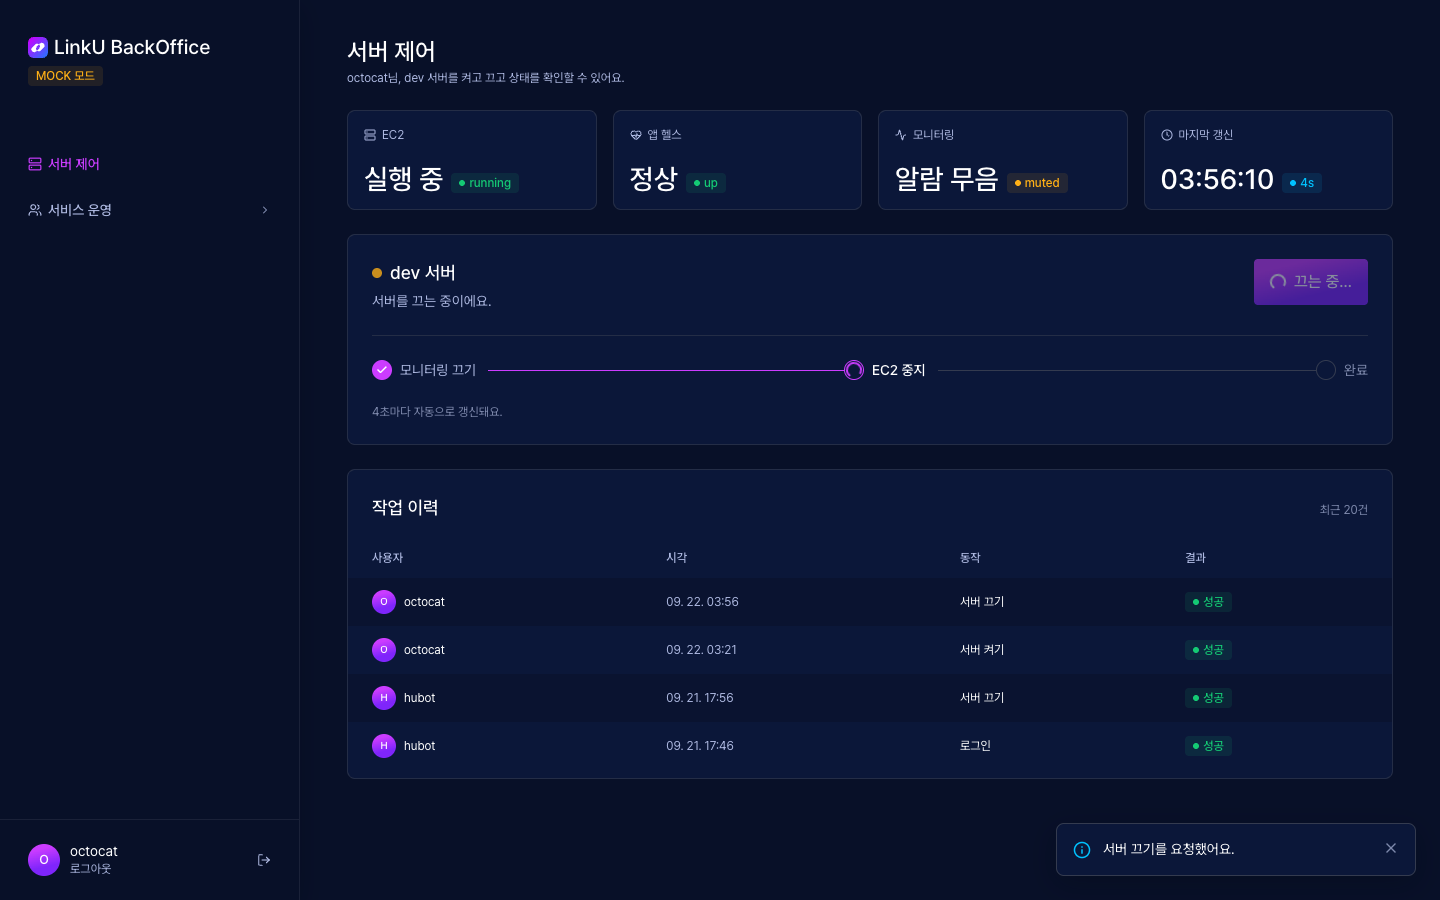
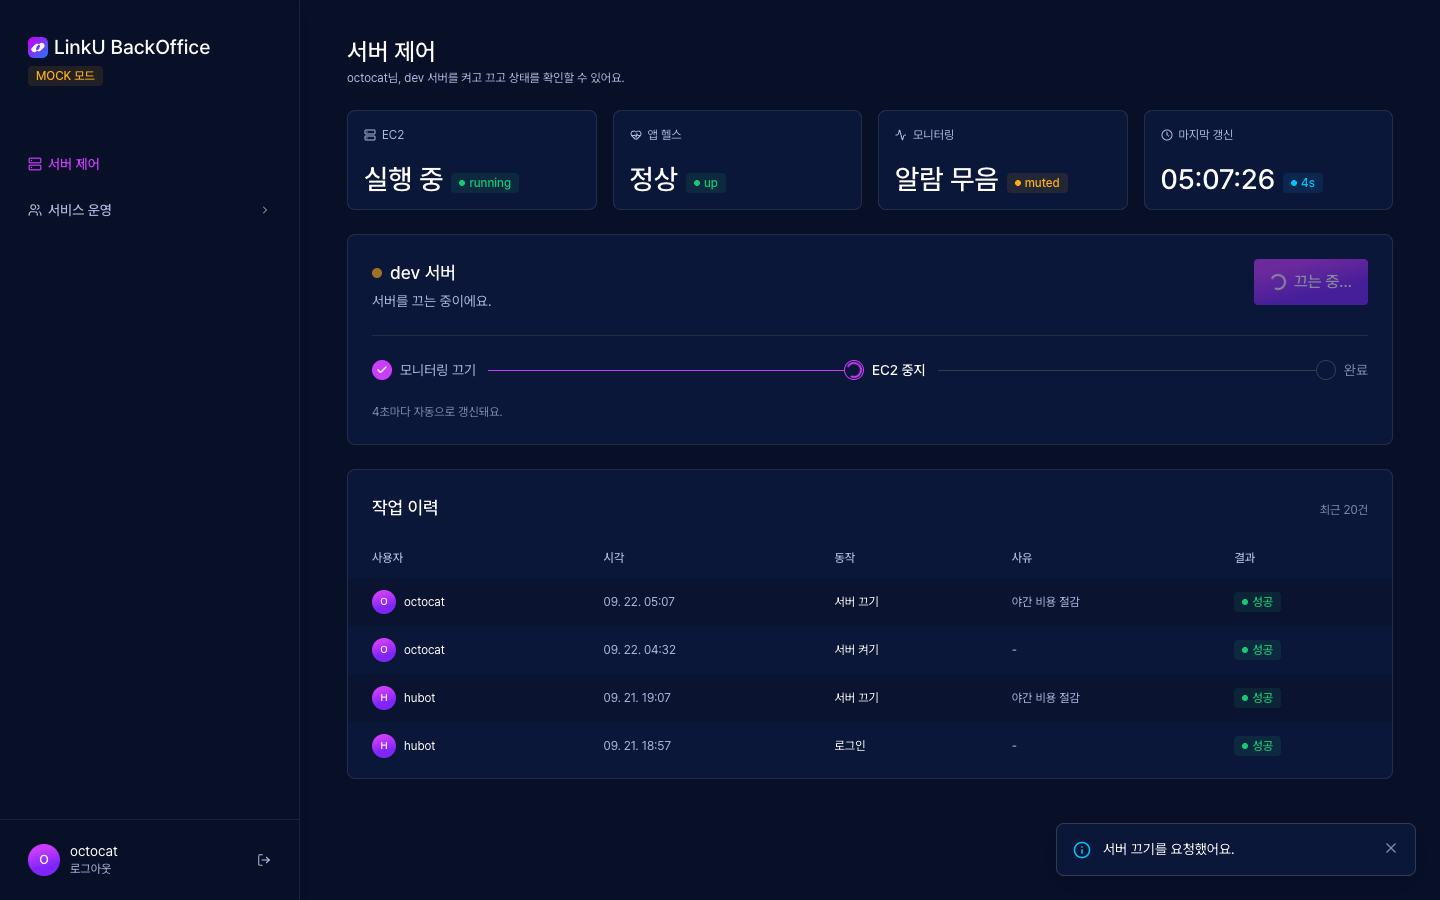
feat: 서버 끄기 사유 입력과 이력 사유 표시 (#3)
* fix: authorizer 거부(403)도 세션 만료로 처리

Lambda authorizer 가 토큰을 거부하면 API Gateway 는 401 이 아니라 403 을 돌려줘서, 토큰이 만료돼도 로그아웃되지 않고 오류만 보이던 문제를 고친다.
토큰 없이 보내는 로그인 요청의 403 은 조직 멤버가 아니라는 뜻이라 세션 만료로 보지 않고 서버 메시지를 그대로 보여준다.

* feat: 서버 끄기 사유 입력과 이력 사유 표시

- 서버 끄기 확인창에 사유 입력칸을 추가하고, 2~100자를 입력해야 확인 버튼이 활성화된다
- POST /stop 에 { reason } 을 함께 보내고, 이력 표에 사유 칸을 추가한다
- ConfirmDialog 에 children 과 confirmDisabled 를 추가한다
- 사유 검증 규칙(reason.ts)은 서버(Lambda)와 같은 규칙을 쓰고 단위 테스트를 추가한다

* docs: 서버 끄기 사유가 반영된 화면 캡처로 갱신

끄기 확인창의 사유 입력칸과 이력 표의 사유 칸이 보이도록 화면 캡처 6장을 다시 찍고, README 의 서버 끄기 설명에 사유 입력을 추가한다.

diff --git a/src/features/server/ServerControlPanel.tsx b/src/features/server/ServerControlPanel.tsx
@@ -1,4 +1,4 @@
-import { useEffect, useState, type ReactNode } from 'react'
+import { useEffect, useRef, useState, type ReactNode } from 'react'
 import { Power } from 'lucide-react'
 import type { ServerAction, ServerStatus } from '@/api/types'
 import { Button } from '@/components/ui/Button'
@@ -9,6 +9,7 @@ import { cn } from '@/lib/cn'
 import { buildSteps, derivePhase, isFlowComplete } from './flow'
 import { STATUS_POLL_MS, useServerAction } from './hooks'
 import { ProgressSteps } from './ProgressSteps'
+import { isValidReason, normalizeReason, REASON_MAX } from './reason'
 
 /** 요청 후 이 시간 안에 끝나지 않으면 "처리 중" 표시를 풀고 직접 확인하도록 안내한다. */
 const FLOW_TIMEOUT_MS = 3 * 60_000
@@ -41,6 +42,9 @@ export function ServerControlPanel({ status, isLoading, isError }: ServerControl
   const toast = useToast()
   const action = useServerAction()
   const [confirming, setConfirming] = useState<ServerAction | null>(null)
+  // 서버를 끌 때 입력하는 사유, 이력에 기록되어 나중에 왜 꺼졌는지 확인하는 용도
+  const [reason, setReason] = useState('')
+  const reasonInputRef = useRef<HTMLInputElement>(null)
   // 이 화면에서 요청한 동작. 상태가 목표에 도달할 때까지 진행 단계를 보여준다.
   const [submitted, setSubmitted] = useState<ServerAction | null>(null)
 
@@ -67,17 +71,32 @@ export function ServerControlPanel({ status, isLoading, isError }: ServerControl
     return () => clearTimeout(timer)
   }, [submitted, toast])
 
+  // 끄기 확인창이 열리면 사유 입력칸으로 바로 포커스
+  useEffect(() => {
+    if (confirming === 'STOP') reasonInputRef.current?.focus()
+  }, [confirming])
+
+  function closeConfirm() {
+    setConfirming(null)
+    setReason('')
+  }
+
   function handleConfirm() {
-    if (!confirming) return
+    if (!confirming || action.isPending) return
+    if (confirming === 'STOP' && !isValidReason(reason)) return
+
     const target = confirming
-    action.mutate(target, {
-      onSuccess: () => {
-        setSubmitted(target)
-        toast.info(target === 'START' ? '서버 켜기를 요청했어요.' : '서버 끄기를 요청했어요.')
+    action.mutate(
+      { action: target, reason: target === 'STOP' ? normalizeReason(reason) : undefined },
+      {
+        onSuccess: () => {
+          setSubmitted(target)
+          toast.info(target === 'START' ? '서버 켜기를 요청했어요.' : '서버 끄기를 요청했어요.')
+        },
+        onError: (error) => toast.error(error.message),
+        onSettled: closeConfirm,
       },
-      onError: (error) => toast.error(error.message),
-      onSettled: () => setConfirming(null),
-    })
+    )
   }
 
   let control: ReactNode
@@ -165,9 +184,33 @@ export function ServerControlPanel({ status, isLoading, isError }: ServerControl
         confirmLabel={confirming ? ACTION_COPY[confirming].confirm : ''}
         tone={confirming ? ACTION_COPY[confirming].tone : 'primary'}
         loading={action.isPending}
+        confirmDisabled={confirming === 'STOP' && !isValidReason(reason)}
         onConfirm={handleConfirm}
-        onCancel={() => setConfirming(null)}
-      />
+        onCancel={closeConfirm}
+      >
+        {confirming === 'STOP' && (
+          <div className="mt-4">
+            <label htmlFor="stop-reason" className="text-xs text-muted">
+              끄는 사유
+            </label>
+            <input
+              id="stop-reason"
+              ref={reasonInputRef}
+              value={reason}
+              maxLength={REASON_MAX}
+              onChange={(event) => setReason(event.target.value)}
+              onKeyDown={(event) => {
+                if (event.key === 'Enter') handleConfirm()
+              }}
+              placeholder="예: 야간 비용 절감, 테스트 종료"
+              className="mt-1.5 h-[42px] w-full rounded border border-border bg-bg px-3 text-sm text-white placeholder:text-subtle focus-visible:outline-2 focus-visible:outline-primary"
+            />
+            <p className="mt-1 text-right text-xs text-subtle">
+              {normalizeReason(reason).length}/{REASON_MAX}
+            </p>
+          </div>
+        )}
+      </ConfirmDialog>
     </Card>
   )
 }

diff --git a/src/api/client.test.ts b/src/api/client.test.ts
@@ -1,0 +1,59 @@
+import { afterEach, describe, expect, it, vi } from 'vitest'
+import { configureApiClient, request } from './client'
+
+function respondWith(status: number, body: unknown = {}) {
+  vi.stubGlobal(
+    'fetch',
+    vi.fn(async () => new Response(JSON.stringify(body), { status })),
+  )
+}
+
+function setup(token: string | null) {
+  const onUnauthorized = vi.fn()
+  configureApiClient({ getToken: () => token, onUnauthorized })
+  return onUnauthorized
+}
+
+afterEach(() => {
+  vi.unstubAllGlobals()
+})
+
+describe('request 의 세션 만료 처리', () => {
+  it('401 이면 세션 만료로 처리한다', async () => {
+    const onUnauthorized = setup('token')
+    respondWith(401)
+
+    await expect(request('/status')).rejects.toMatchObject({ status: 401 })
+    expect(onUnauthorized).toHaveBeenCalledOnce()
+  })
+
+  it('토큰을 보냈는데 403 이면 authorizer 가 거부한 것이라 세션 만료로 처리한다', async () => {
+    const onUnauthorized = setup('token')
+    respondWith(403, { message: 'Forbidden' })
+
+    await expect(request('/status')).rejects.toMatchObject({ status: 401 })
+    expect(onUnauthorized).toHaveBeenCalledOnce()
+  })
+
+  it('토큰 없이 보낸 로그인 요청의 403 은 세션 만료가 아니라 서버 메시지를 그대로 보여준다', async () => {
+    const onUnauthorized = setup(null)
+    respondWith(403, { message: 'LinkYou 조직 멤버만 접근할 수 있어요.' })
+
+    await expect(request('/auth/github', { method: 'POST', body: '{}' })).rejects.toMatchObject({
+      status: 403,
+      message: 'LinkYou 조직 멤버만 접근할 수 있어요.',
+    })
+    expect(onUnauthorized).not.toHaveBeenCalled()
+  })
+
+  it('409 같은 일반 오류는 세션 만료로 보지 않고 서버 메시지를 전달한다', async () => {
+    const onUnauthorized = setup('token')
+    respondWith(409, { message: '서버가 이미 꺼져 있거나 전환 중이에요.' })
+
+    await expect(request('/stop', { method: 'POST' })).rejects.toMatchObject({
+      status: 409,
+      message: '서버가 이미 꺼져 있거나 전환 중이에요.',
+    })
+    expect(onUnauthorized).not.toHaveBeenCalled()
+  })
+})

diff --git a/src/components/ui/ConfirmDialog.tsx b/src/components/ui/ConfirmDialog.tsx
@@ -5,10 +5,14 @@ interface ConfirmDialogProps {
   open: boolean
   title: string
   description: ReactNode
+  /** 설명 아래에 넣을 추가 입력 영역 (예: 사유 입력) */
+  children?: ReactNode
   confirmLabel: string
   cancelLabel?: string
   tone?: 'primary' | 'danger'
   loading?: boolean
+  /** 입력이 올바르지 않을 때 확인 버튼 비활성화 */
+  confirmDisabled?: boolean
   onConfirm: () => void
   onCancel: () => void
 }
@@ -18,10 +22,12 @@ export function ConfirmDialog({
   open,
   title,
   description,
+  children,
   confirmLabel,
   cancelLabel = '취소',
   tone = 'primary',
   loading = false,
+  confirmDisabled = false,
   onConfirm,
   onCancel,
 }: ConfirmDialogProps) {
@@ -50,11 +56,17 @@ export function ConfirmDialog({
       <div className="p-6">
         <h2 className="text-lg font-medium">{title}</h2>
         <div className="mt-2 text-sm leading-relaxed text-muted">{description}</div>
+        {children}
         <div className="mt-6 flex justify-end gap-2">
           <Button variant="secondary" onClick={onCancel} disabled={loading}>
             {cancelLabel}
           </Button>
-          <Button variant={tone === 'danger' ? 'danger' : 'primary'} onClick={onConfirm} loading={loading}>
+          <Button
+            variant={tone === 'danger' ? 'danger' : 'primary'}
+            onClick={onConfirm}
+            loading={loading}
+            disabled={confirmDisabled}
+          >
             {confirmLabel}
           </Button>
         </div>

diff --git a/src/api/mock.ts b/src/api/mock.ts
@@ -22,7 +22,7 @@ const state: MockState = { ec2: 'running', app: 'up', monitoring: 'active' }
 
 const history: HistoryItem[] = [
   { id: 'seed-3', at: minutesAgo(35), user: 'octocat', action: 'START', result: 'SUCCESS' },
-  { id: 'seed-2', at: minutesAgo(600), user: 'hubot', action: 'STOP', result: 'SUCCESS' },
+  { id: 'seed-2', at: minutesAgo(600), user: 'hubot', action: 'STOP', result: 'SUCCESS', reason: '야간 비용 절감' },
   { id: 'seed-1', at: minutesAgo(610), user: 'hubot', action: 'LOGIN', result: 'SUCCESS' },
 ]
 
@@ -40,13 +40,14 @@ function later(ms: number, fn: () => void) {
   setTimeout(fn, ms)
 }
 
-function record(action: HistoryAction) {
+function record(action: HistoryAction, reason?: string) {
   history.unshift({
     id: `mock-${++seq}`,
     at: new Date().toISOString(),
     user: MOCK_USER,
     action,
     result: 'SUCCESS',
+    ...(reason ? { reason } : {}),
   })
 }
 
@@ -74,12 +75,15 @@ export const mockServerApi: ServerApi = {
     })
   },
 
-  async stop() {
+  async stop(reason) {
     await delay(300)
+    if (reason.trim().length < 2) {
+      throw new ApiError(400, '서버를 끄는 사유를 2자 이상 100자 이하로 입력해 주세요.')
+    }
     if (state.ec2 !== 'running') {
       throw new ApiError(409, '서버가 이미 꺼져 있거나 전환 중이에요.')
     }
-    record('STOP')
+    record('STOP', reason.trim())
     state.monitoring = 'muted'
     later(1_500, () => {
       state.ec2 = 'stopping'

diff --git a/src/features/server/HistoryTable.tsx b/src/features/server/HistoryTable.tsx
@@ -6,7 +6,7 @@ import { formatDateTime } from '@/lib/format'
 import { HISTORY_LIMIT, useServerHistory } from './hooks'
 import { HISTORY_ACTION_LABELS } from './labels'
 
-const COLUMNS = ['사용자', '시각', '동작', '결과']
+const COLUMNS = ['사용자', '시각', '동작', '사유', '결과']
 
 function Row({ item }: { item: HistoryItem }) {
   return (
@@ -19,6 +19,9 @@ function Row({ item }: { item: HistoryItem }) {
       </td>
       <td className="px-6 py-3 text-muted">{formatDateTime(item.at)}</td>
       <td className="px-6 py-3">{HISTORY_ACTION_LABELS[item.action]}</td>
+      <td className="max-w-[260px] truncate px-6 py-3 text-muted" title={item.reason}>
+        {item.reason ?? '-'}
+      </td>
       <td className="px-6 py-3">
         <Badge tone={item.result === 'SUCCESS' ? 'success' : 'danger'}>
           {item.result === 'SUCCESS' ? '성공' : '실패'}
@@ -67,7 +70,7 @@ export function HistoryTable() {
         <p className="text-xs text-subtle">최근 {HISTORY_LIMIT}건</p>
       </div>
       <div className="mt-4 overflow-x-auto">
-        <table className="w-full min-w-[520px] text-left text-xs">
+        <table className="w-full min-w-[640px] text-left text-xs">
           <caption className="sr-only">서버 제어 작업 이력</caption>
           <thead className="text-muted">
             <tr>

diff --git a/src/features/server/reason.test.ts b/src/features/server/reason.test.ts
@@ -1,0 +1,30 @@
+import { describe, expect, it } from 'vitest'
+import { isValidReason, normalizeReason, REASON_MAX, REASON_MIN } from './reason'
+
+describe('normalizeReason', () => {
+  it('앞뒤 공백을 지우고 연속 공백과 줄바꿈을 한 칸으로 정리한다', () => {
+    expect(normalizeReason('  테스트   종료\n후 정리  ')).toBe('테스트 종료 후 정리')
+  })
+})
+
+describe('isValidReason', () => {
+  it('공백뿐이거나 비어 있으면 유효하지 않다', () => {
+    expect(isValidReason('')).toBe(false)
+    expect(isValidReason('     ')).toBe(false)
+  })
+
+  it('최소 길이 미만이면 유효하지 않고 최소 길이부터 유효하다', () => {
+    expect(isValidReason('a'.repeat(REASON_MIN - 1))).toBe(false)
+    expect(isValidReason('a'.repeat(REASON_MIN))).toBe(true)
+  })
+
+  it('공백은 길이에 포함하지 않고 정리한 뒤 센다', () => {
+    expect(isValidReason(' 가   ')).toBe(false)
+    expect(isValidReason(' 가나 ')).toBe(true)
+  })
+
+  it('최대 길이를 넘으면 유효하지 않다', () => {
+    expect(isValidReason('a'.repeat(REASON_MAX))).toBe(true)
+    expect(isValidReason('a'.repeat(REASON_MAX + 1))).toBe(false)
+  })
+})

diff --git a/src/api/client.ts b/src/api/client.ts
@@ -54,7 +54,10 @@ export async function request<T>(path: string, init: RequestInit = {}): Promise<
     throw new ApiError(0, '서버에 연결할 수 없어요. 네트워크 상태를 확인해 주세요.')
   }
 
-  if (res.status === 401) {
+  // Lambda authorizer 가 토큰을 거부하면 API Gateway 는 401 이 아니라 403 을 돌려줌
+  // 토큰 없이 보내는 로그인 요청의 403 은 조직 멤버가 아니라는 뜻이라 세션 만료로 보지 않음
+  const sessionRejected = res.status === 401 || (res.status === 403 && token !== null)
+  if (sessionRejected) {
     handlers.onUnauthorized()
     throw new ApiError(401, '로그인이 만료됐어요. 다시 로그인해 주세요.')
   }

diff --git a/src/features/server/hooks.ts b/src/features/server/hooks.ts
@@ -26,7 +26,8 @@ export function useServerHistory() {
 export function useServerAction() {
   const queryClient = useQueryClient()
   return useMutation({
-    mutationFn: (action: ServerAction) => (action === 'START' ? serverApi.start() : serverApi.stop()),
+    mutationFn: ({ action, reason }: { action: ServerAction; reason?: string }) =>
+      action === 'START' ? serverApi.start() : serverApi.stop(reason ?? ''),
     onSettled: () => queryClient.invalidateQueries({ queryKey: ['server'] }),
   })
 }

diff --git a/src/api/types.ts b/src/api/types.ts
@@ -27,6 +27,8 @@ export interface HistoryItem {
   user: string
   action: HistoryAction
   result: 'SUCCESS' | 'FAILURE'
+  /** 서버를 끈 사유 등 부가 설명, 없으면 생략 */
+  reason?: string
 }
 
 export interface AuthUser {
@@ -42,6 +44,6 @@ export interface AuthSession {
 export interface ServerApi {
   getStatus(): Promise<ServerStatus>
   start(): Promise<void>
-  stop(): Promise<void>
+  stop(reason: string): Promise<void>
   getHistory(limit?: number): Promise<HistoryItem[]>
 }

diff --git a/src/features/server/reason.ts b/src/features/server/reason.ts
@@ -1,0 +1,12 @@
+export const REASON_MIN = 2
+export const REASON_MAX = 100
+
+/** 앞뒤 공백을 지우고 연속 공백과 줄바꿈을 한 칸으로 정리, 서버 검증과 같은 규칙 */
+export function normalizeReason(value: string) {
+  return value.trim().replace(/\s+/g, ' ')
+}
+
+export function isValidReason(value: string) {
+  const { length } = normalizeReason(value)
+  return length >= REASON_MIN && length <= REASON_MAX
+}

diff --git a/src/api/server.ts b/src/api/server.ts
@@ -5,7 +5,7 @@ import type { ServerApi } from './types'
 const httpServerApi: ServerApi = {
   getStatus: () => request('/status'),
   start: () => request('/start', { method: 'POST' }),
-  stop: () => request('/stop', { method: 'POST' }),
+  stop: (reason) => request('/stop', { method: 'POST', body: JSON.stringify({ reason }) }),
   getHistory: (limit = 20) => request(`/history?limit=${limit}`),
 }
 

diff --git a/README.md b/README.md
@@ -14,12 +14,12 @@ LinkYou 프로젝트의 인프라 관리 & 서비스 운영을 위한 BackOffice
 GitHub 조직 멤버만 로그인할 수 있어요.
 
 ### 2⃣ 서버 상태 확인
-EC2 · 앱 헬스 · 모니터링 상태와 작업 이력을 한눈에 볼 수 있어요.
+EC2 · 앱 헬스 · 모니터링 상태와 작업 이력(누가, 언제, 무엇을, 왜)을 한눈에 볼 수 있어요.
 
 <img src="docs/screenshots/02-server-on.png" width="800" alt="서버 제어 (켜짐)">
 
 ### 3⃣ 서버 끄기
-`서버 끄기`를 누르면 확인창이 떠요.
+`서버 끄기`를 누르면 확인창이 떠요. **끄는 사유**(2~100자)를 입력해야 확인할 수 있고, 이력에 기록돼요.
 
 <img src="docs/screenshots/03-confirm-stop.png" width="800" alt="서버 끄기 확인">
 
